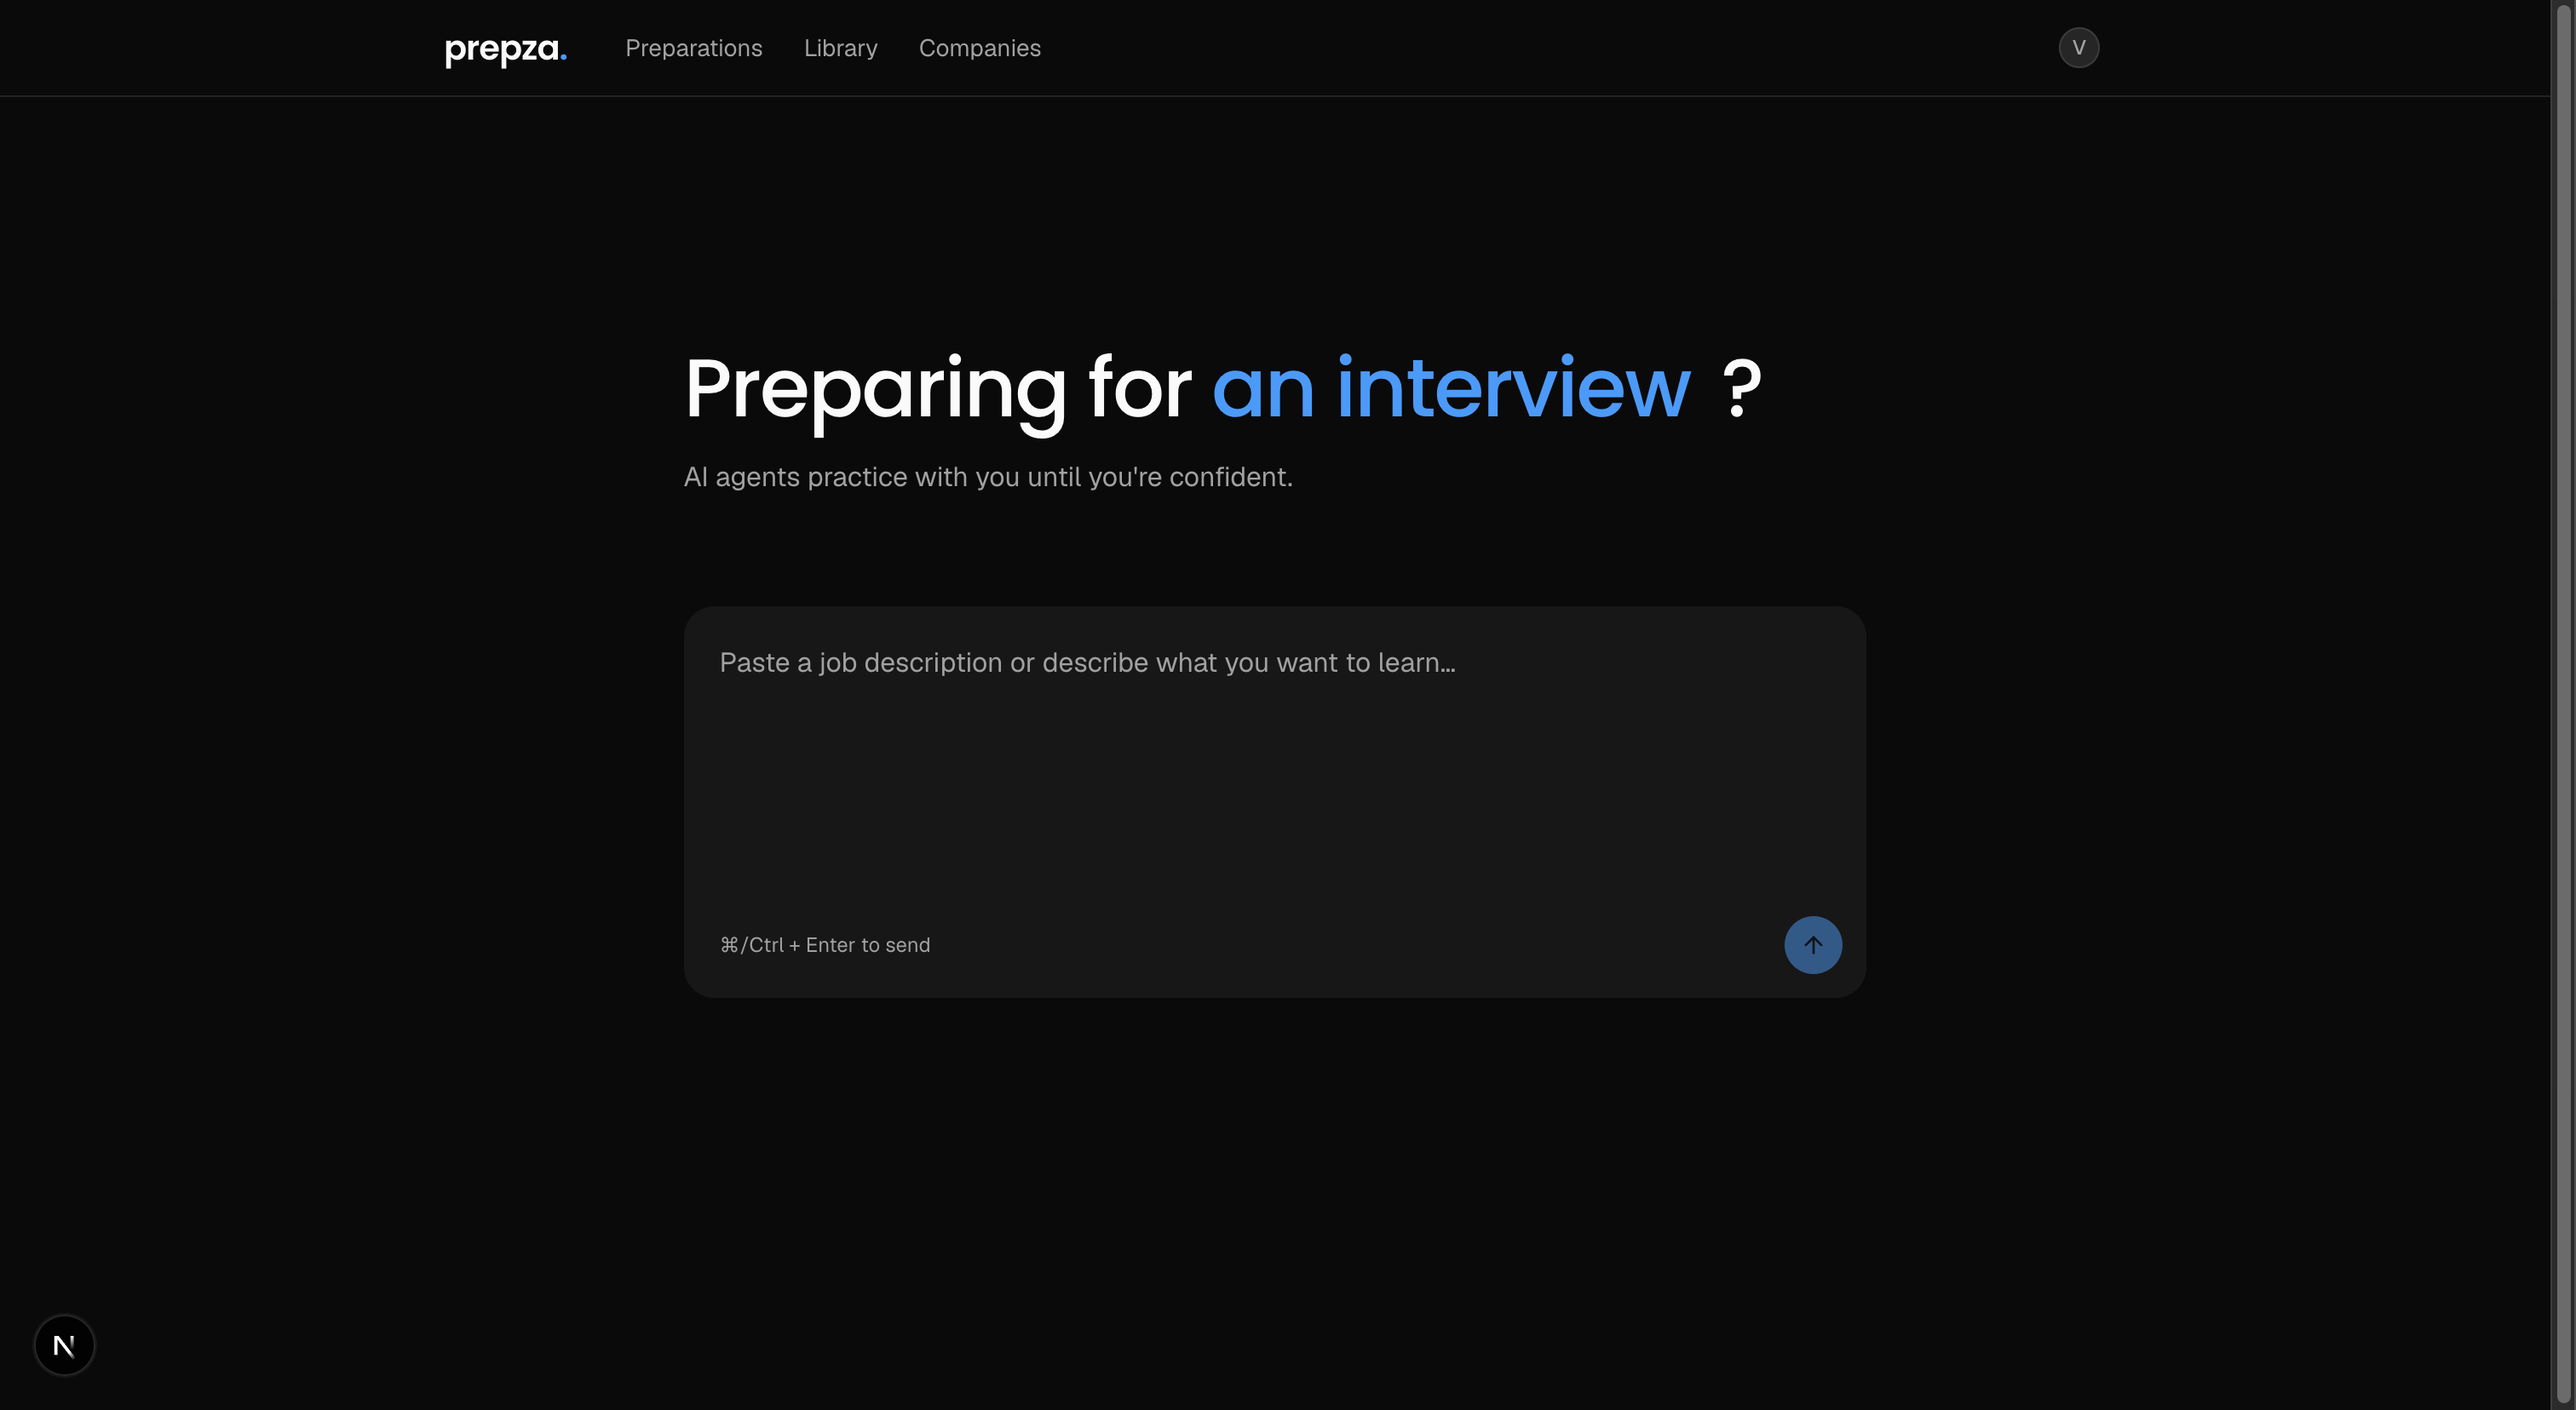
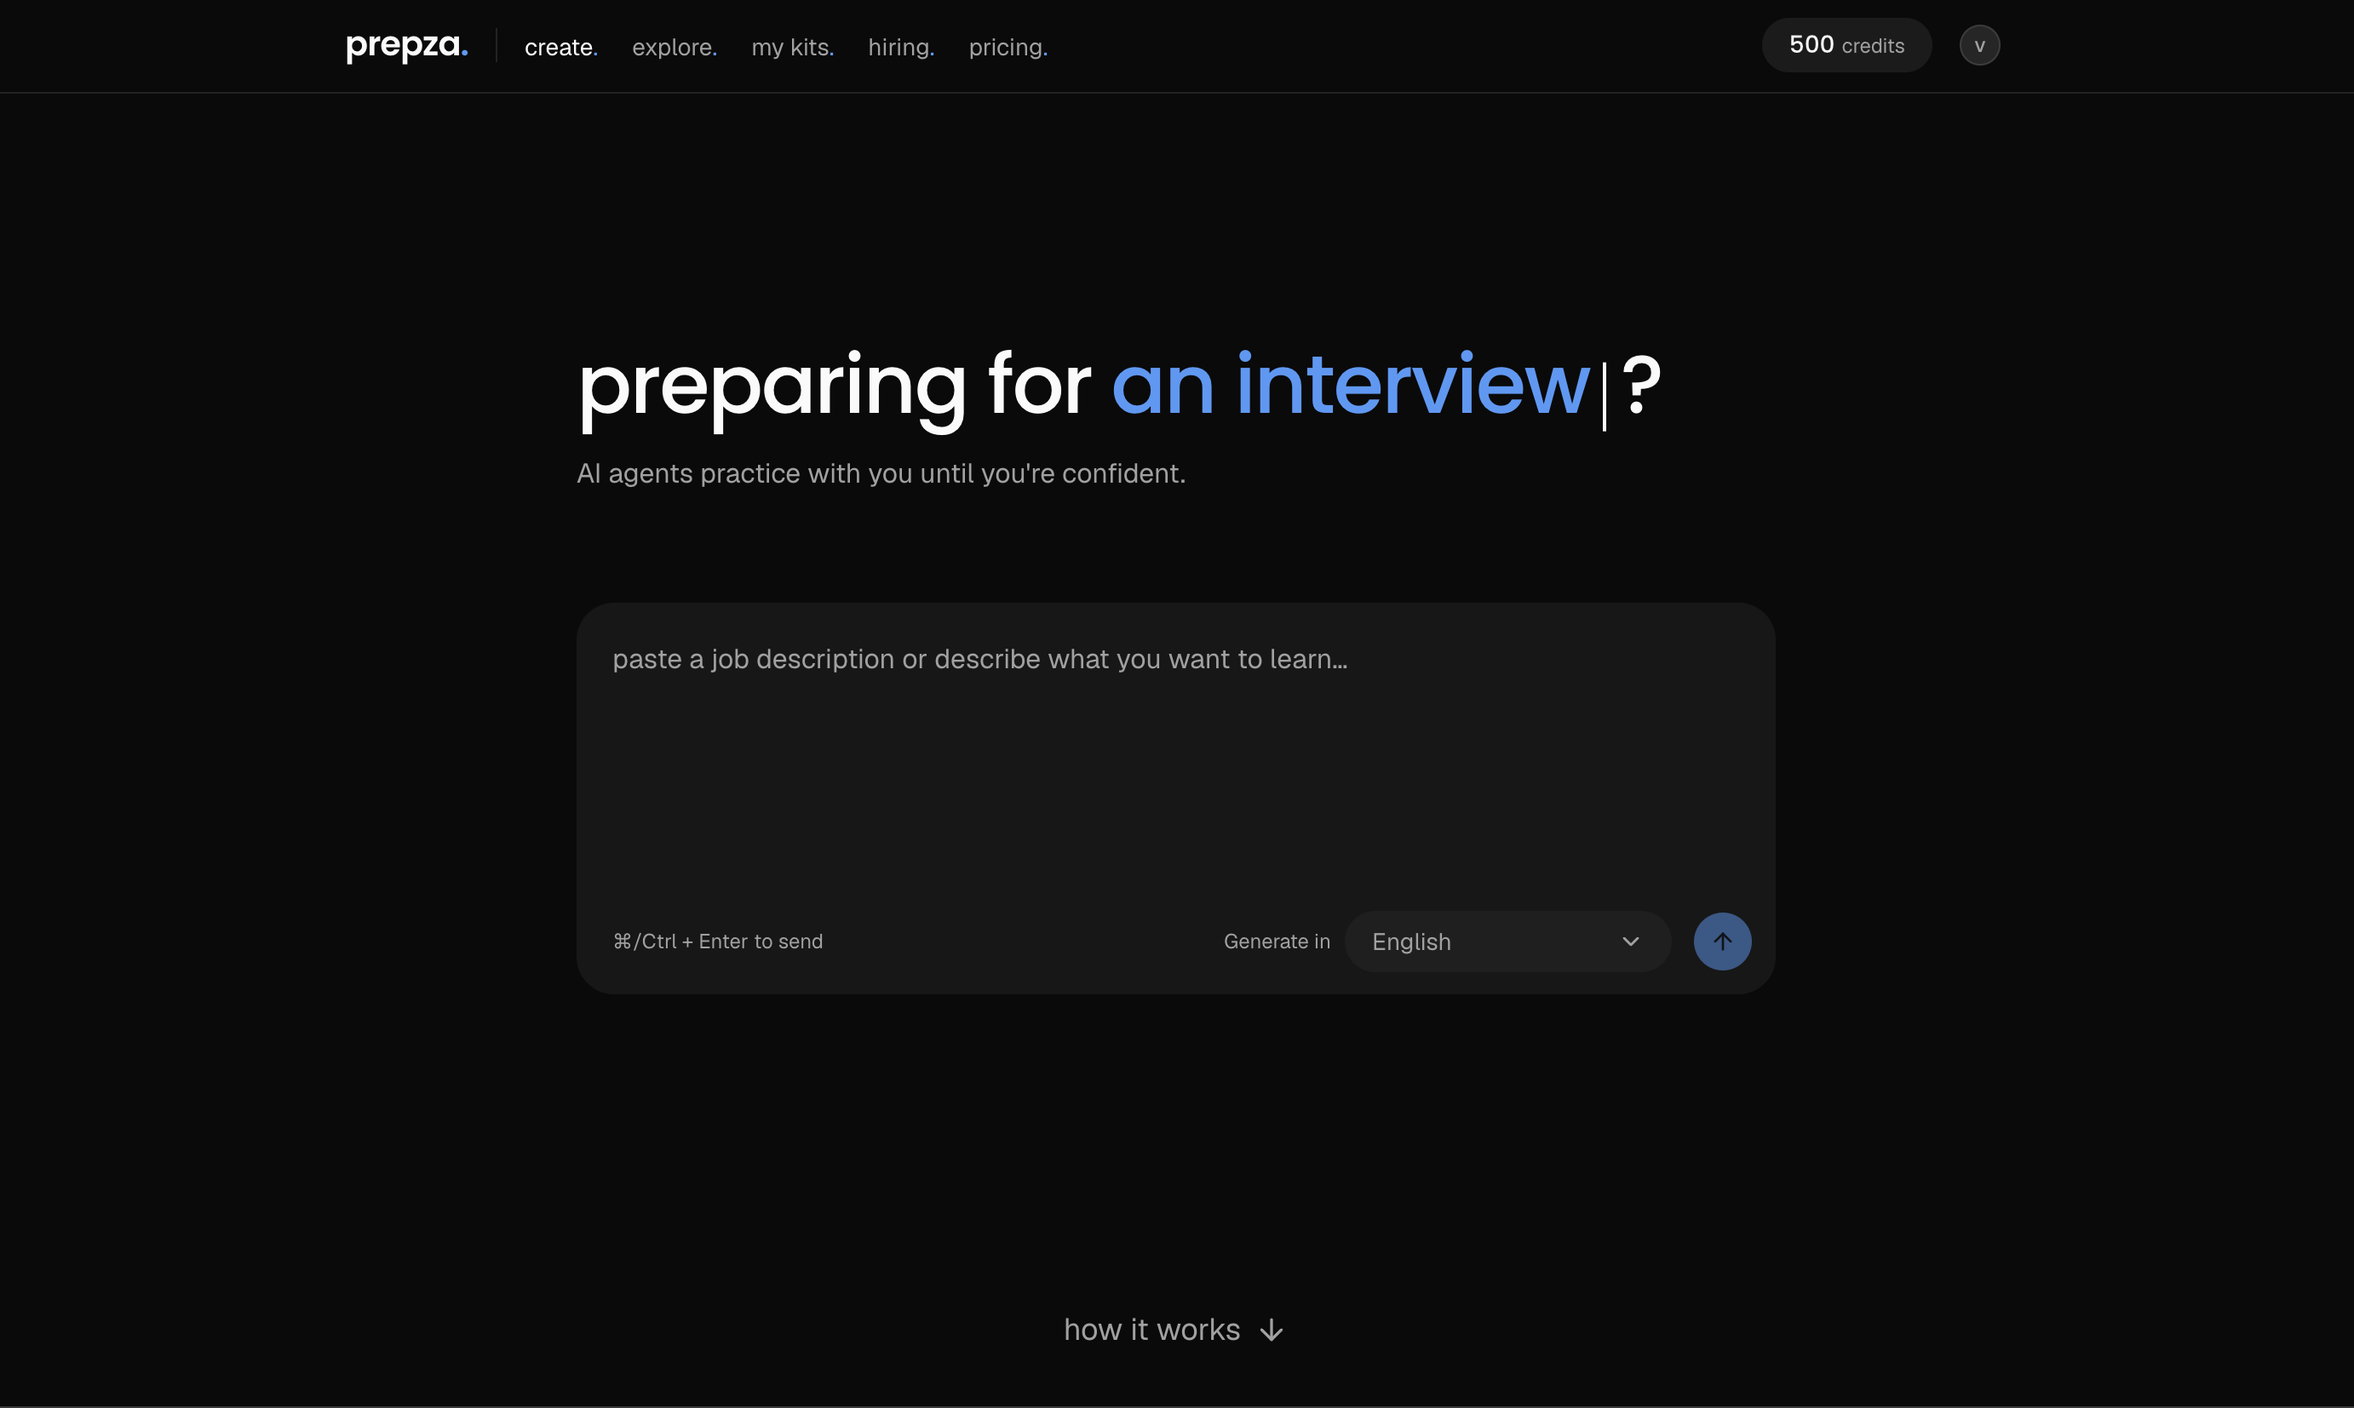
update readme

diff --git a/README.md b/README.md
@@ -17,6 +17,7 @@ Turn a job description or a learning goal into a structured practice path: revie
 - After answering, rate the question (thumbs up or down, changeable) or report a problem; rate preparations with stars. Owners can re-generate individual questions.
 - Questions improve on their own: answers, votes and reports flag weak ones, and a background verifier fixes or replaces them (see [Question quality](#question-quality)).
 - Share a preparation privately by email, or publish it to the public library.
+- The public library filters by level (one) and language (several; by default your interface language and English), and sorts by rating (the default), date or how many people joined.
 - Everything works in 23 languages: English, Russian, Ukrainian, Spanish, Portuguese, German, French, Italian, Polish, Dutch, Turkish, Arabic, Hebrew, Persian, Japanese, Chinese, Korean, Hindi, Indonesian, Thai, Vietnamese, Filipino and Estonian. That covers the interface, error messages, generated kits and interviews, and emails.
 - On a first visit the site opens in the browser's preferred language if it's supported, otherwise in English. A new account keeps the language it signed up in; it can be changed in Settings.
 - Kits and interviews are generated in the language chosen in "generate in" next to the text box (the interface language by default), whatever language the pasted text is in. Invite emails follow the interview's language. Arabic, Hebrew and Persian read right to left on the site and in emails.
@@ -24,12 +25,14 @@ Turn a job description or a learning goal into a structured practice path: revie
 
 **For companies**
 
+- Company names are unique across prepza, ignoring case.
 - Generate an interview from a job description and set how many questions each topic asks.
 - Invite candidates by email, resend an invite, or revoke one the candidate hasn't used yet. The invite page tells candidates what to expect before they start.
 - Each candidate gets a random subset of each topic, with their own question and option order, in a single pass. Answers can't be changed, and unanswered questions count as wrong.
 - Every interview is **timed**: each question gets its own countdown (60 seconds by default, adjustable per interview), and a question still open when it reaches zero counts as wrong. The server enforces it, so closing the tab doesn't stop the clock. An interview the candidate leaves finishes by itself once its total time, plus 10%, has passed; unanswered questions count as wrong.
 - Scorecards show every answer, whether it was right and how long it took. They flag answers too fast to have read the question, times the candidate left the page, and copy attempts.
 - Candidates never see their scores or whether an answer was right.
+- The candidate list is sorted by grade by default (best first, candidates without a grade yet last), or by invite date.
 
 **Credits and payments** (see [docs/monetization.md](docs/monetization.md))
 
@@ -39,6 +42,15 @@ Turn a job description or a learning goal into a structured practice path: revie
 - **Automatic top-up:** on the top-up page, under each balance ("Automatic top-up: off"), choose a top-up and a balance to refill under; the card is saved through Paddle once. Shown only when Paddle's API key and the $0 price are set (see [Payments](#payments)).
 - **Referrals:** a learner's link in Settings → referral, a company's in its referrals tab. Both sides get credits on the newcomer's first top-up (200 each for learners; 600 each for companies, from $25).
 - Settings → billing lists every credit in and out. Refunds and chargebacks in Paddle take the credits they bought back.
+
+**Site and help**
+
+- **Home page:** the goal box first, then a landing page that walks through prepza, one section per screen: the three steps, topic review, rounds, the tutor, certificates, question quality, sharing, hiring, languages, pricing and referrals. Each section has a picture of the real interface, several of them animated; prices and rewards come from billing, so they follow any change. Signed-in users see it too.
+- **FAQ** (`/faq`): the common questions, in the interface language with today's prices, and at the end an AI help chat about prepza, open to visitors too. It answers only from the platform guide, the FAQ, the prices, the certificate rules, the terms and the privacy policy, in the page's language; nothing of the conversation is stored. Limits: 30 messages an hour per account (`HELP_USER_LIMIT`), 5,000 a day in all (`HELP_DAILY_LIMIT`), and in Google Cloud 20 questions per 10 minutes per IP at the edge.
+- **Legal pages:** the privacy policy and terms are served by the rounds service (English only), which the help chat answers from too. The contact address in them, hello@prepza.ai, is put together in the browser, so the page's HTML doesn't hold it for bots to collect.
+- **Contact us** (`/contact`): a name, email and message form. The message is emailed to hello@prepza.ai (`CONTACT_EMAIL` in notifications), with the visitor's address as the reply-to, so answering the email answers them. At most 200 messages a day in all (`CONTACT_DAILY_LIMIT`).
+- **About us** (`/about`): why prepza exists, and its solo founder.
+- The footer links pricing, the privacy policy, the terms, the FAQ, About us and Contact us.
 
 ## Architecture
 
@@ -69,6 +81,7 @@ flowchart LR
     worker -- generation.completed / cancelled --> pubsub
     library -- preparation.shared --> pubsub
     companies -- candidate.invited --> pubsub
+    rounds -- contact.sent --> pubsub
     pubsub -- push --> library
     pubsub -- push --> companies
     pubsub -- push --> notifications -- email --> smtp[Resend / mailpit]
@@ -79,10 +92,10 @@ flowchart LR
 |---|---|
 | `library` | Preparations and interviews (question sets), sharing, joining, ratings and reports, public library search, question quality flags and reuse |
 | `generation` | The generation pipeline (LangGraph), run by its worker (`app/worker_main.py`) as Cloud Tasks jobs; topic review, re-generating single questions, the question verifier, and scheduled sweeps |
-| `rounds` | Practice rounds, progress and certificates, the follow-up chat, candidate interview sessions |
-| `companies` | Companies, admins, interviews and candidate invites |
+| `rounds` | Practice rounds, progress and certificates, the follow-up chat, candidate interview sessions; the FAQ, the help chat, the legal texts and the contact form (`/help/...`) |
+| `companies` | Companies (unique names), admins, interviews and candidate invites |
 | `billing` | Credit wallets for learners and companies (holds, charges, history), welcome gifts, referrals, Paddle top-ups, automatic top-ups, refunds and chargebacks (webhooks); other services set credits aside or charge them through it |
-| `notifications` | Receives domain events pushed by Pub/Sub and sends emails through Resend (mailpit without a key) |
+| `notifications` | Receives domain events pushed by Pub/Sub and sends emails through Resend (mailpit without a key): share and candidate invites, and contact messages to prepza's inbox |
 | `frontend` | Next.js app; server-rendered pages call the API through the gateway |
 
 Each service owns its own Postgres database. Services call each other's `/internal/` endpoints with short-lived signed tokens; the gateway never exposes those routes. Code the API services share (sign-in, service tokens, logging, database and HTTP setup) lives in [`packages/common`](packages/common), installed into each service from the repo; the API images are therefore built from the repo root. Every list endpoint takes `offset` and `limit` (at most 100 per page). Users sign in with Firebase Authentication (the local setup uses the Firebase emulator, so no Firebase project is needed). Long jobs (a generation, a question check) are Cloud Tasks that call the generation worker's `/internal/jobs/...`; periodic work (stuck-generation sweeps, key-check batches, retention) is Cloud Scheduler calling `/internal/schedules/...`. Google signs those calls, and pushes, as one invoker service account, which each service checks. Locally there is no queue: the API calls the worker directly, and a small `scheduler` container runs `scripts/local/crontab`. Domain events are saved in an `outbox` table in the same transaction as the change they announce, published right after, and published by a per-minute scheduled flush if that failed, so a change never loses its event. They go to one Pub/Sub topic, `events`, which pushes each event to the `/internal/events` endpoint of library, companies and notifications; each ignores events that aren't its own. Locally, Google's Pub/Sub emulator runs in docker-compose and `scripts/local/pubsub-setup.sh` creates the topic and subscriptions. The services also publish small `funnel.*` events (signed up, kit ready, topped up and so on) to the same topic; a filtered BigQuery subscription stores them for the dashboards and the push subscriptions skip them. They carry counts and a salted hash of the user id (`ANALYTICS_SALT`), never emails or text; see [docs/measurement.md](docs/measurement.md). Locally nothing stores them.
@@ -177,7 +190,7 @@ Per-user rate limits (`GENERATION_LIMIT`, `LLM_LIMIT`) cap how much a single acc
 
 ### Emails
 
-Share and candidate invites are sent by the `notifications` service, as HTML with a plain-text version. To send real emails through [Resend](https://resend.com):
+Share and candidate invites are sent by the `notifications` service, as HTML with a plain-text version, and so are contact page messages, to `CONTACT_EMAIL` (hello@prepza.ai by default). Note that with `RESEND_API_KEY` set, a message sent from the local contact page reaches that real inbox. To send real emails through [Resend](https://resend.com):
 
 1. Verify your domain at resend.com/domains.
 2. In `.env`, set `RESEND_API_KEY` (a sending-only key is enough) and `MAIL_FROM` with an address on that domain, for example `prepza. <no-reply@yourdomain.com>`.
@@ -210,10 +223,13 @@ cd frontend && pnpm api-types
 # and Redis, in a "<service>_test" database created and dropped for the run
 ./scripts/tests/integration.sh            # or: ./scripts/tests/integration.sh rounds library
 
-# Browser tests of the signed-out pages (home, explore, pricing, terms, privacy) on desktop and
-# phone sizes, in Playwright's Docker image: no console errors, no sideways scroll, the same page
-# width everywhere, the footer at the end, lowercase titles
+# Browser tests of the signed-out pages (home, explore, pricing, terms, privacy, FAQ, about,
+# contact) on desktop and phone sizes, in Playwright's Docker image: no console errors, no sideways
+# scroll, the same page width everywhere, the footer at the end, lowercase titles
 ./scripts/tests/pages.sh
+
+# Translations: every language has every key of en.json, with the same placeholders and plurals
+docker compose exec frontend pnpm check:messages
 
 # End-to-end, with real generations (needs OPENAI_API_KEY; a few cents and a few minutes): a learner
 # generates a kit and practises; a company generates an interview and invites a candidate, who
@@ -221,7 +237,24 @@ cd frontend && pnpm api-types
 python3 scripts/tests/e2e.py
 ```
 
-CI runs all of these on every pull request push and every push to main, except the end-to-end test, which needs an OpenAI key; it also builds every production image and starts the whole stack for the smoke test. On main it pushes the production images, and a `v*` tag deploys them (see [infra/README.md](infra/README.md#deploys)).
+CI runs all of these except the end-to-end test, which needs an OpenAI key. It also builds every production image and starts the whole stack for the smoke, integration and page tests.
+
+## CI/CD
+
+| When | What runs |
+|---|---|
+| A push to a pull request | CI ([`ci.yml`](.github/workflows/ci.yml)); a newer push cancels the run for the previous one |
+| A merge to `main` | CI again on the merged code, then the production images are pushed, tagged with the commit. Nothing is deployed |
+| A `v*` tag on such a commit | [`deploy.yml`](.github/workflows/deploy.yml): checks the tag is on `main` and CI passed on it, tags that commit's images with the version (no rebuild), runs the migrations, deploys every service, smoke-tests the site and creates a GitHub release |
+| Actions → Deploy → Run workflow with an earlier tag | Redeploys that version: a rollback |
+
+To release, tag the last commit of a push to `main` once CI has passed on it:
+
+```bash
+git tag v1.4.0 && git push origin v1.4.0
+```
+
+Migrations only go forward, so keep them additive for rollbacks to stay safe. The one-time GitHub setup (tag protection, an optional approval for deploys) is in [infra/README.md](infra/README.md#deploys).
 
 ## Project conventions
 
